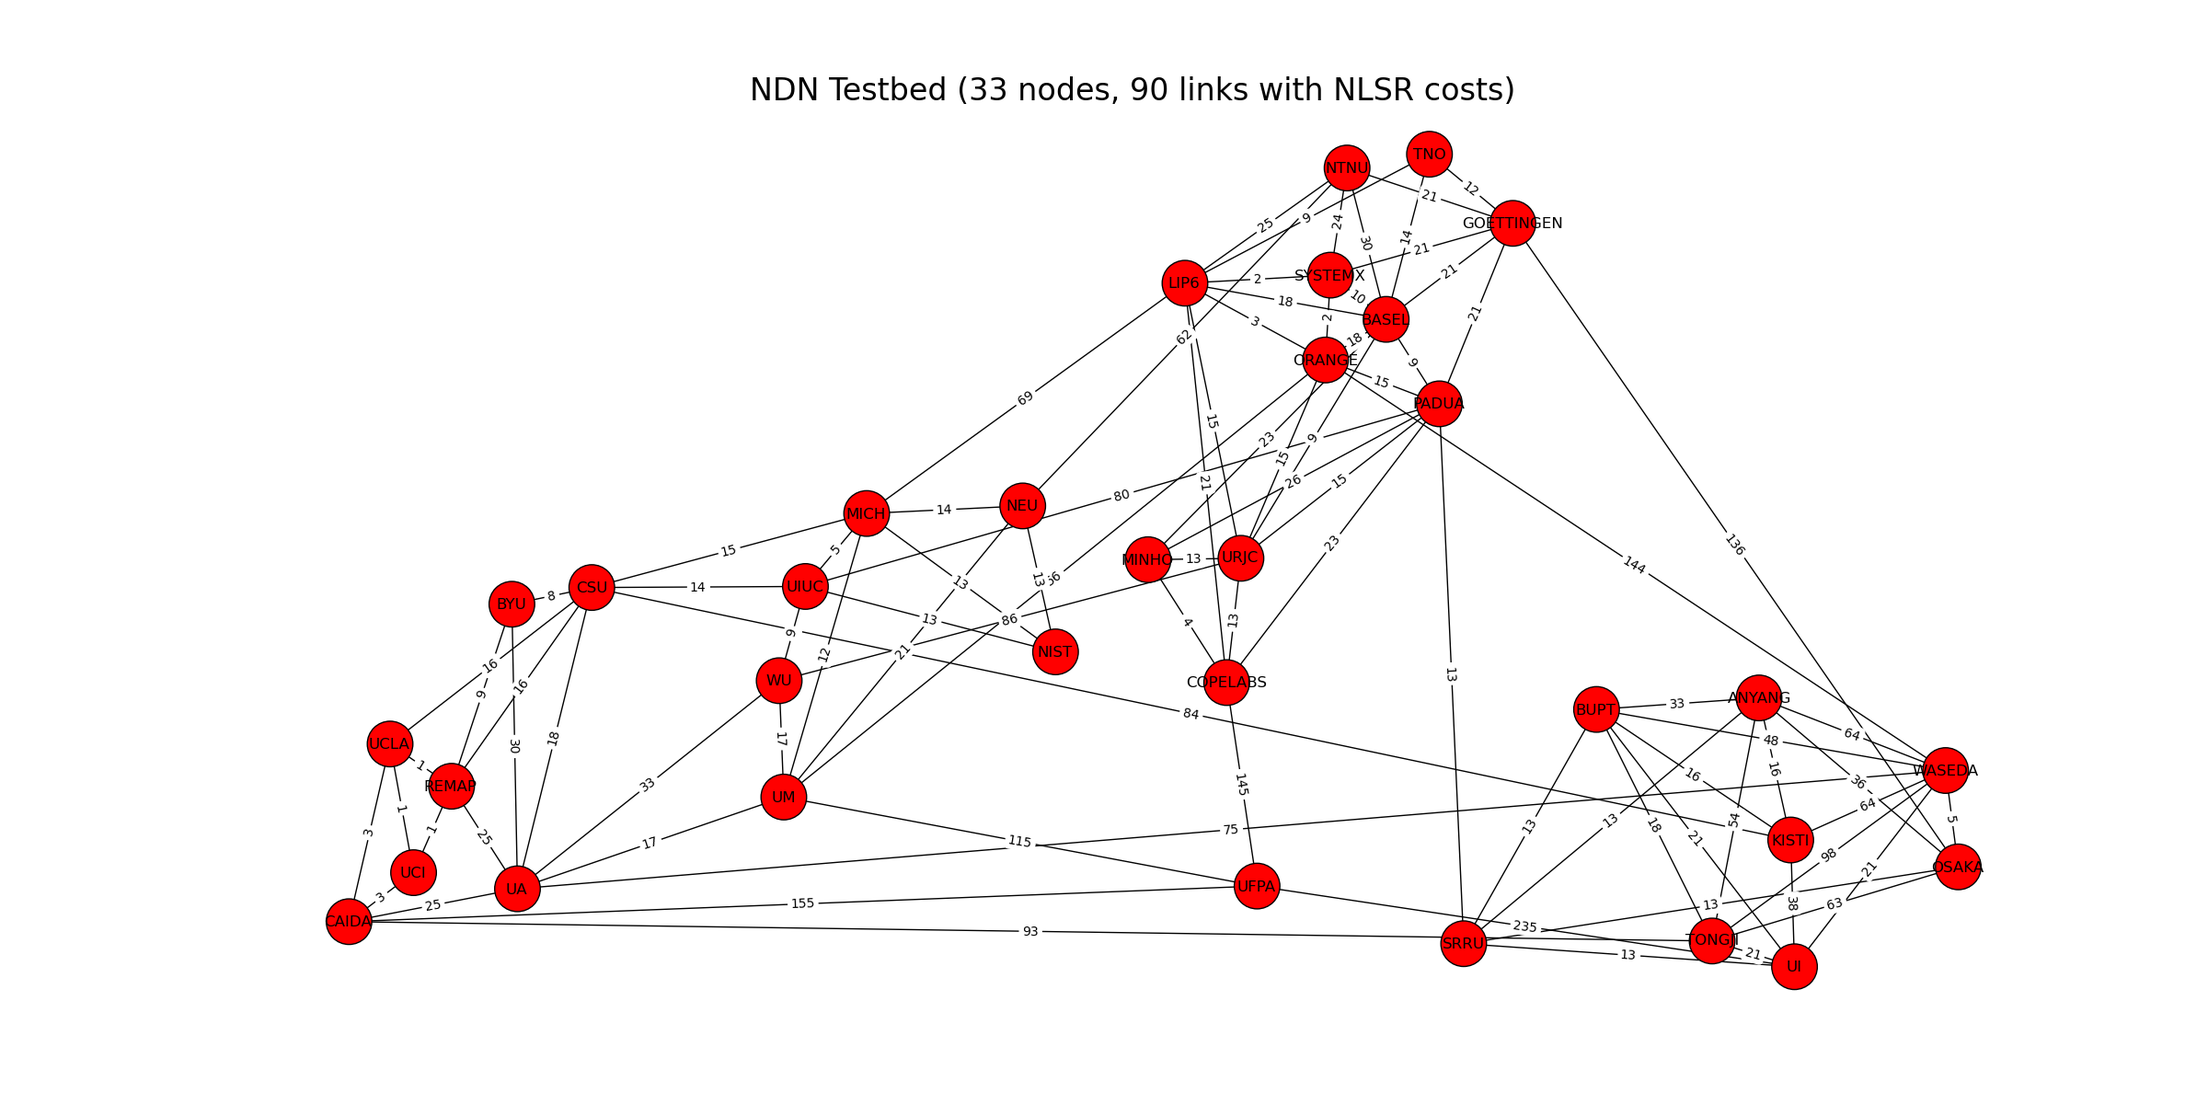
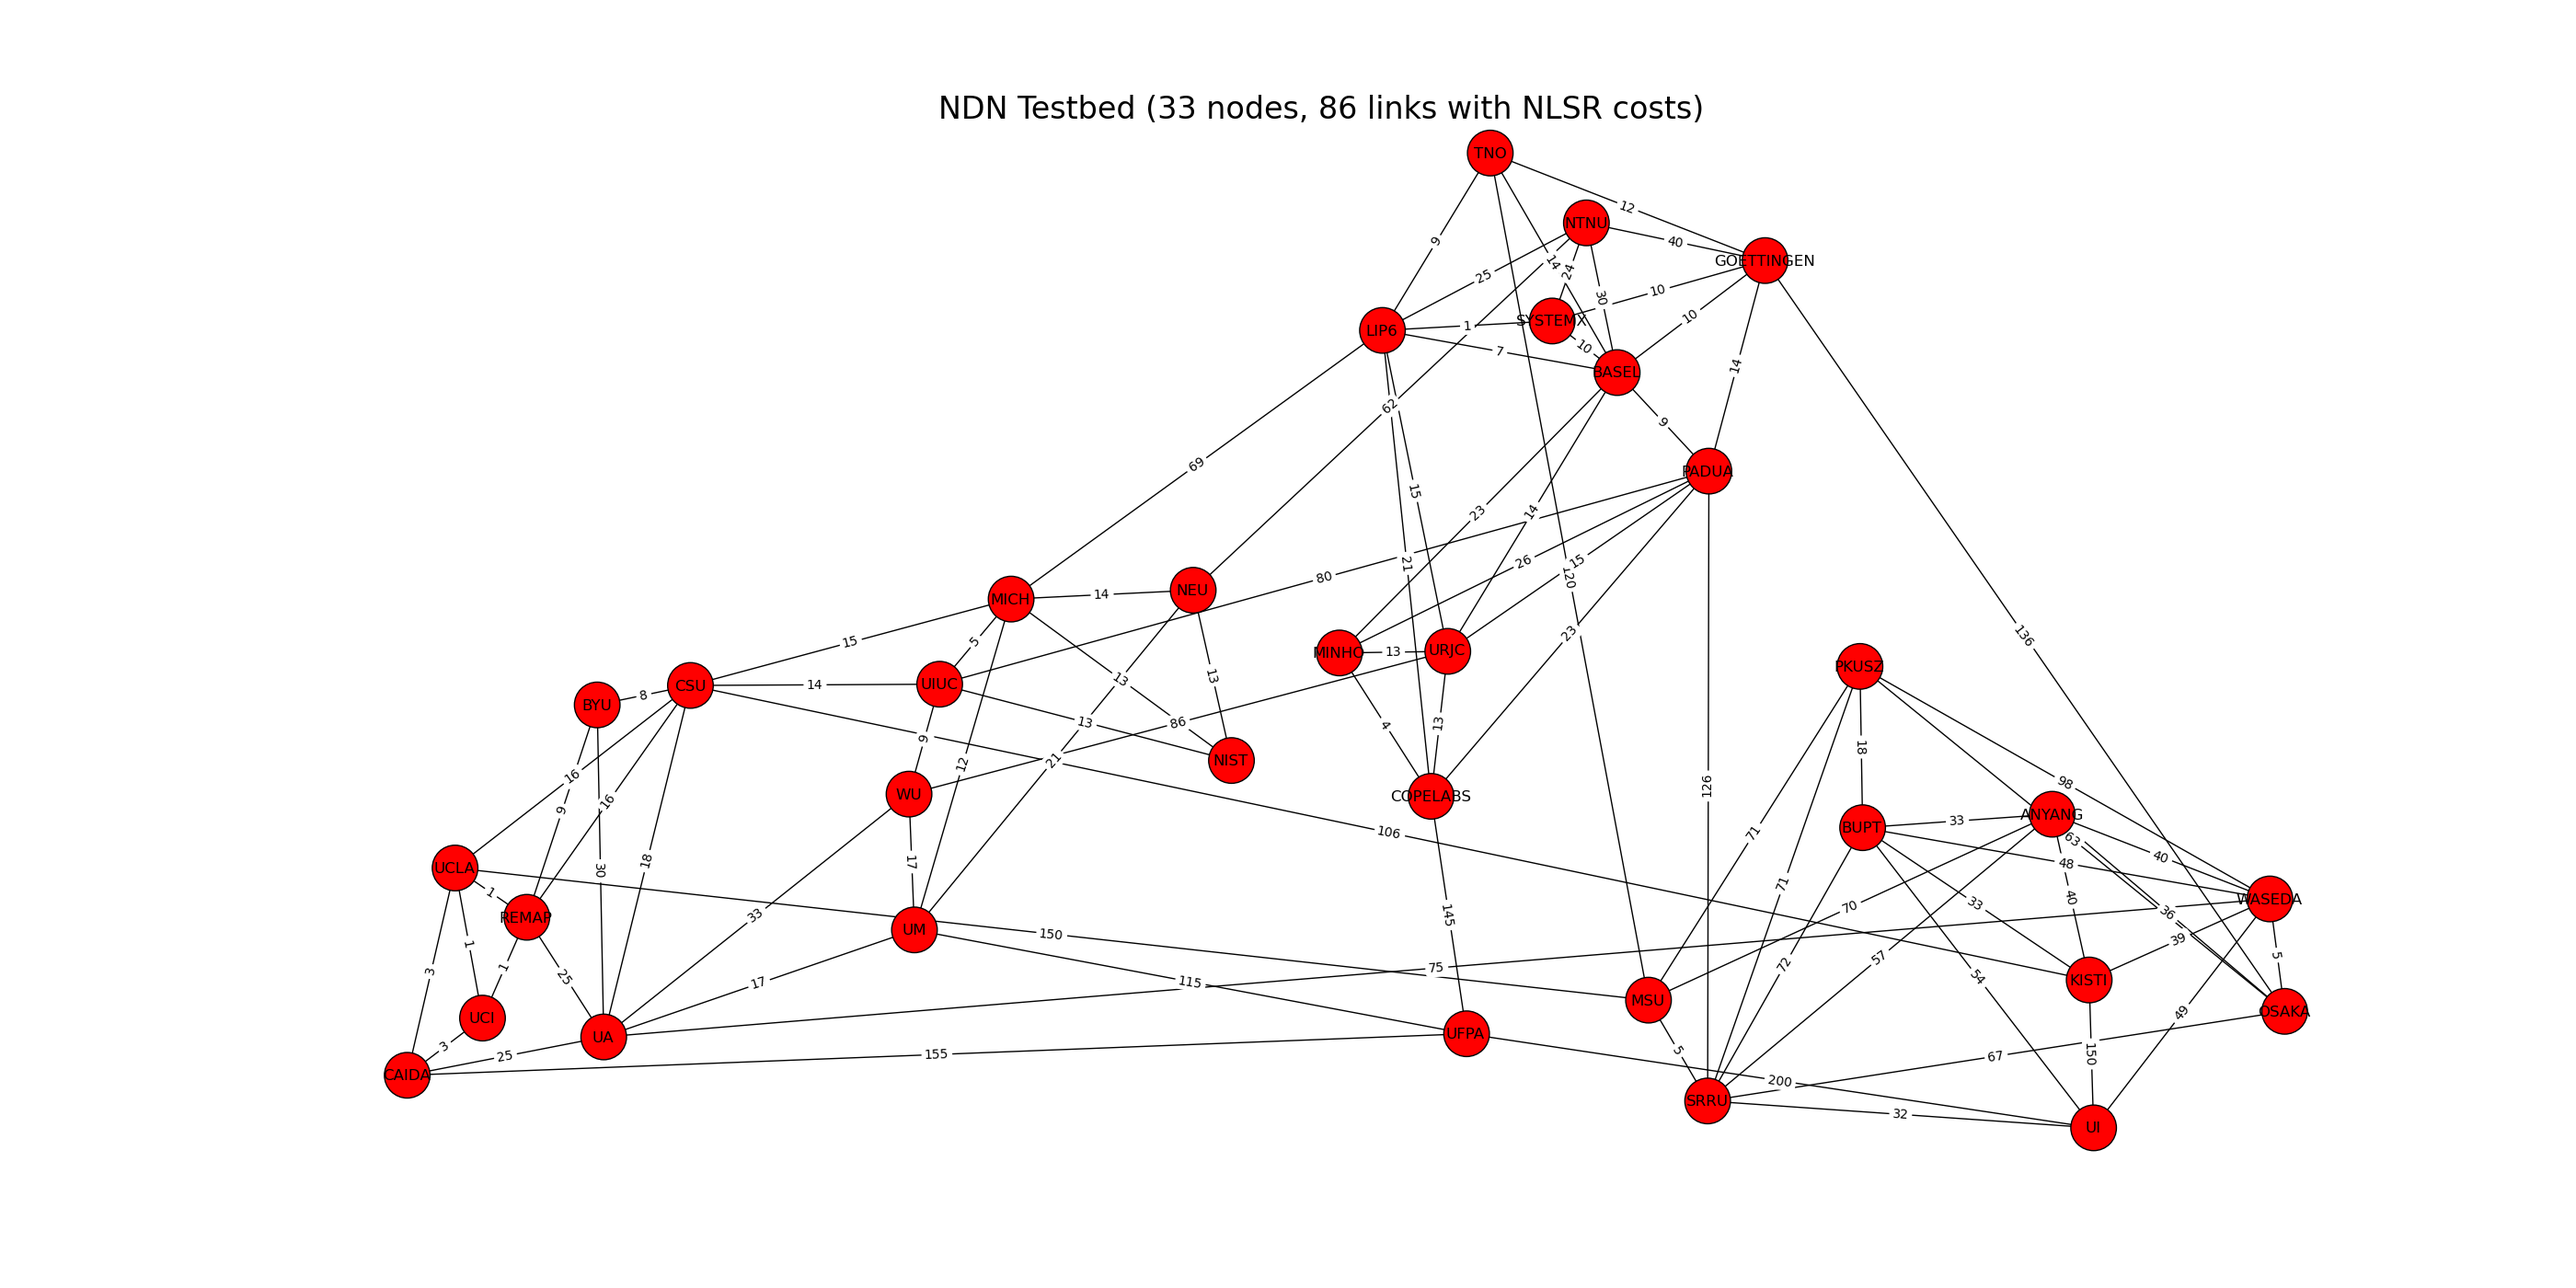
latest updates

diff --git a/ndn_prefix/tbs_ndnx.py b/ndn_prefix/tbs_ndnx.py
@@ -149,8 +149,15 @@ def is_testbed_prefix(prefix):
 		return False
 	#if(re.search("(ndn:/ndn/ucla.edu/%40GUEST\.*)", prefix) != None):
 	#	return False
-	if(re.search("(/ndn/edu/ucla/%40GUEST\.*)", prefix) != None):
+        #print "is_testbed_prefix( " + prefix + " )"
+	if(re.search("(\%40GUEST)", prefix) != None):
 		return False
+	#if(re.search("(\.%40GUEST)", prefix) != None):
+	#	return False
+	#if(re.search("(/ndn/edu/\.*/%40GUEST\.*)", prefix) != None):
+	#	return False
+	#if(re.search("(/ndn/edu/ucla/%40GUEST\.*)", prefix) != None):
+	#	return False
 	if(re.search("(\.edu)|(\.org)|(\.com)|(\.cn)|(\.es)|(\.ch)|(\.de)|(\.fr)|(\.id)|(\.br)|(\.jp)|(\.nl)|(\.th)|(\.gov)|(\.no)|(\.kr)|(\.it)|(\.pt)|(\.uk)", prefix) != None):
 		config.valid_prefix[prefix] = get_domain(prefix)
 		return True
@@ -455,16 +462,20 @@ def gen_prefix_status_description():
 <font size="3" face="arial">Site Prefix Status: (Green: node has FIB entry for prefix; Red: no FIB entry; Yellow: no FIB entry but prefix is in node's domain) <br></font>
 <font size="3" face="arial">Clock Skew Status: (As compared to UCLA Node's time: Green: < 5 secs off; Yellow: 5 <  > 30 secs; Red: > 30 seconds off) <br><br></font>
 <font size="3" face="arial">Notes on current (August 2, 2016) status: We are finishing up the upgrade of nodes to Ubuntu 14.04.<br></font>
-<font size="3" face="arial">Notes on current (August 2, 2016) status: NLSR is being upgraded to 0.3.0.<br></font>
-<font size="3" face="arial">Notes on current (October 5, 2016) status: This week we are upgrading all nodes to nfd 0.5.0. <br></font>
 <font size="3" face="arial">Notes on current (November 19, 2016) status: We are starting our transition to Ansible (https://www.ansible.com/) to maintain the NDN Testbed. <br></font>
-<font size="3" face="arial">Notes on current (January 14, 2017) status: Nodes currently marked as down (red) and why:. <br></font>
-<font size="3" face="arial">..............BUPT: unreachable via ssh and http. <br></font>
-<font size="3" face="arial">...........PADUA: unreachable via ssh and http. <br></font>
-<font size="3" face="arial">...INDONESIA: issues with handling fragmented packets. <br></font>
-<font size="3" face="arial">...............MSU: issues with handling fragmented packets. <br></font>
-<font size="3" face="arial">.............SRRU: issues with handling fragmented packets. <br></font>
-<font size="3" face="arial">........WASEDA: being moved to a new machine. <br></font>
+<font size="3" face="arial">Notes on current (January 30, 2017) status: Nodes with problems that have work-arounds. <br></font>
+<font size="3" face="arial">...............MSU: Now using TCP for nfd faces. Has issues with handling fragmented UDP packets. Up by using TCP faces <br></font>
+<font size="3" face="arial">...............BYU: Now using TCP for nfd faces. Has issues with handling fragmented UDP packets. Up by using TCP faces <br></font>
+<font size="3" face="arial">Notes on current (January 30, 2017) status: nfd 0.5.1 has been installed. NLSR 0.3.1 had some issues and will be installed at a later date. <br></font>
+<font size="3" face="arial">Notes on current (January 31, 2017) status: Nodes with problems that have work-arounds. <br></font>
+<font size="3" face="arial">.............SRRU: MTU set to 1460 and TCP faces. Something on some paths to SRRU is not handling large packets. MTU=1460  and TCP faces relieves problem. <br></font>
+<font size="3" face="arial">Notes on current (February 3, 2017) status: WASEDA is now re-installed on a new machine and back up. <br></font>
+<font size="3" face="arial">Notes on current (February 7, 2017) status: NLSR 0.3.1 is being installed today. <br></font>
+<font size="3" face="arial">Notes on current (February 14, 2017) status: INDONESIA: Issues with fragmentation are now fixed.<br></font>
+<font size="3" face="arial">Notes on current (February 20, 2017) status: PKUSZ: New node installed at Peking University Shenzhen Graduate School (PKUSZ).<br></font>
+<font size="3" face="arial">Notes on current (March 14, 2017) status: Hyperbolic Routing is now the default for NLSR on the Testbed. <br></font>
+<font size="3" face="arial">Notes on current (March 15, 2017) status: TONGJI is leaving the NDN Testbed. <br></font>
+<font size="3" face="arial">Notes on current (March 15, 2017) status: Cacti graph system being re-installed today. It will be unavailable for a couple of hours. <br></font>
 
 <br>
 
@@ -500,7 +511,7 @@ def fes_html_gen(all_prefix):
         html_code += "<DT> <A HREF=\"http://ndnmap.arl.wustl.edu/\">NDN Bandwidth Map </A>"
         html_code += "\n"
 	html_code += "<br />"
-        html_code += "<DT> <A HREF=\"http://ndndemo.arl.wustl.edu/cacti/\">NDN Testbed Cacti graphs</A>"
+        html_code += "<DT> <A HREF=\"http://ndndemo.arl.wustl.edu/cacti/\">NDN Testbed Cacti graphs (currently unavailable 3/15/17)</A>"
         html_code += "\n"
 	html_code += "<br />"
         html_code += "<DT> <A HREF=\"http://netlab.cs.memphis.edu/script/htm/ndn-status/status.htm\">NDN Routing</A>"

diff --git a/ndn_prefix/NDN_nx.py b/ndn_prefix/NDN_nx.py
@@ -145,8 +145,8 @@ def NDN_graph():
         #if node == "VERISIGN":
         #  y = y -1
         if node == "NTNU":
-          y = y - 12
-          x = x - 6
+          y = y - 12.6
+          x = x - 5.0
         if node == "COPELABS":
           y = y - 0.5
           x = x + 4
@@ -165,14 +165,22 @@ def NDN_graph():
         if node == "NIST":
           x = x + 8
           y = y - 0.25
+        if node == "MSU":
+          y = y + 16.25
+          x = x - 4
         if node == "SRRU":
           y = y + 16
         if node == "UFPA":
           y = y + 36.5
           x = x - 3
+        if node == "PADUA":
+          x = x + 2
         if node == "TNO":
-          y = y - 0.2
-          x = x + 7
+          y = y + 0.4
+          x = x - 5.0
+        if node == "PKUSZ":
+          y = y + 18
+          x = x - 0
 
         #if node == "PKU":
         #  x = x -3
@@ -206,7 +214,7 @@ if __name__ == '__main__':
     print graphLabel
     try:
         print "about to plt.figure"
-        plt.figure(figsize=(24,12))
+        plt.figure(figsize=(28,14))
         plt.title(graphLabel, fontsize=24)
         print "about to nx.draw"
         #nx.draw(G,G.position, with_labels=True)
